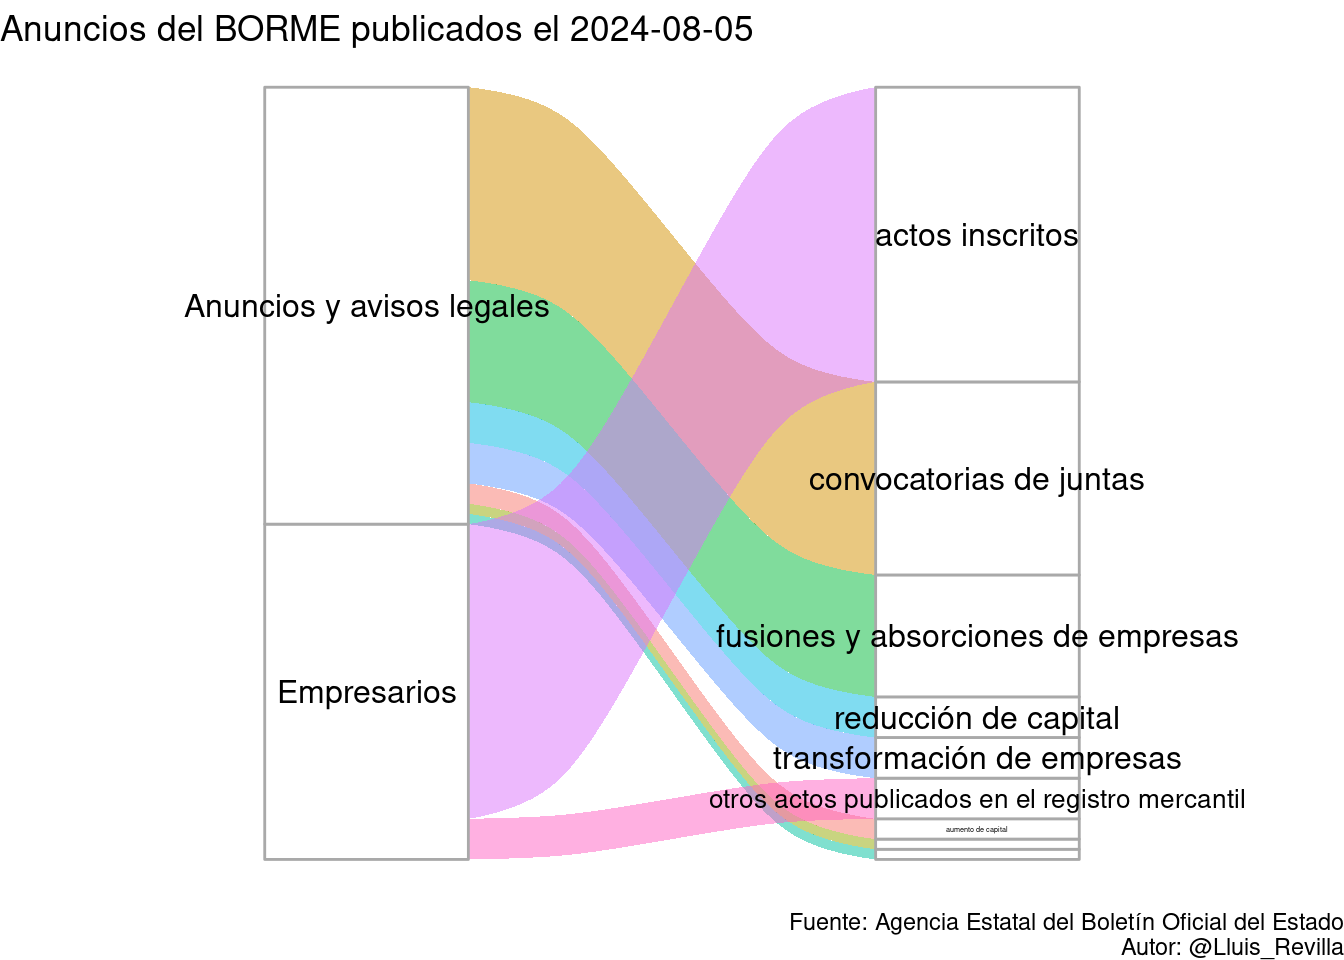
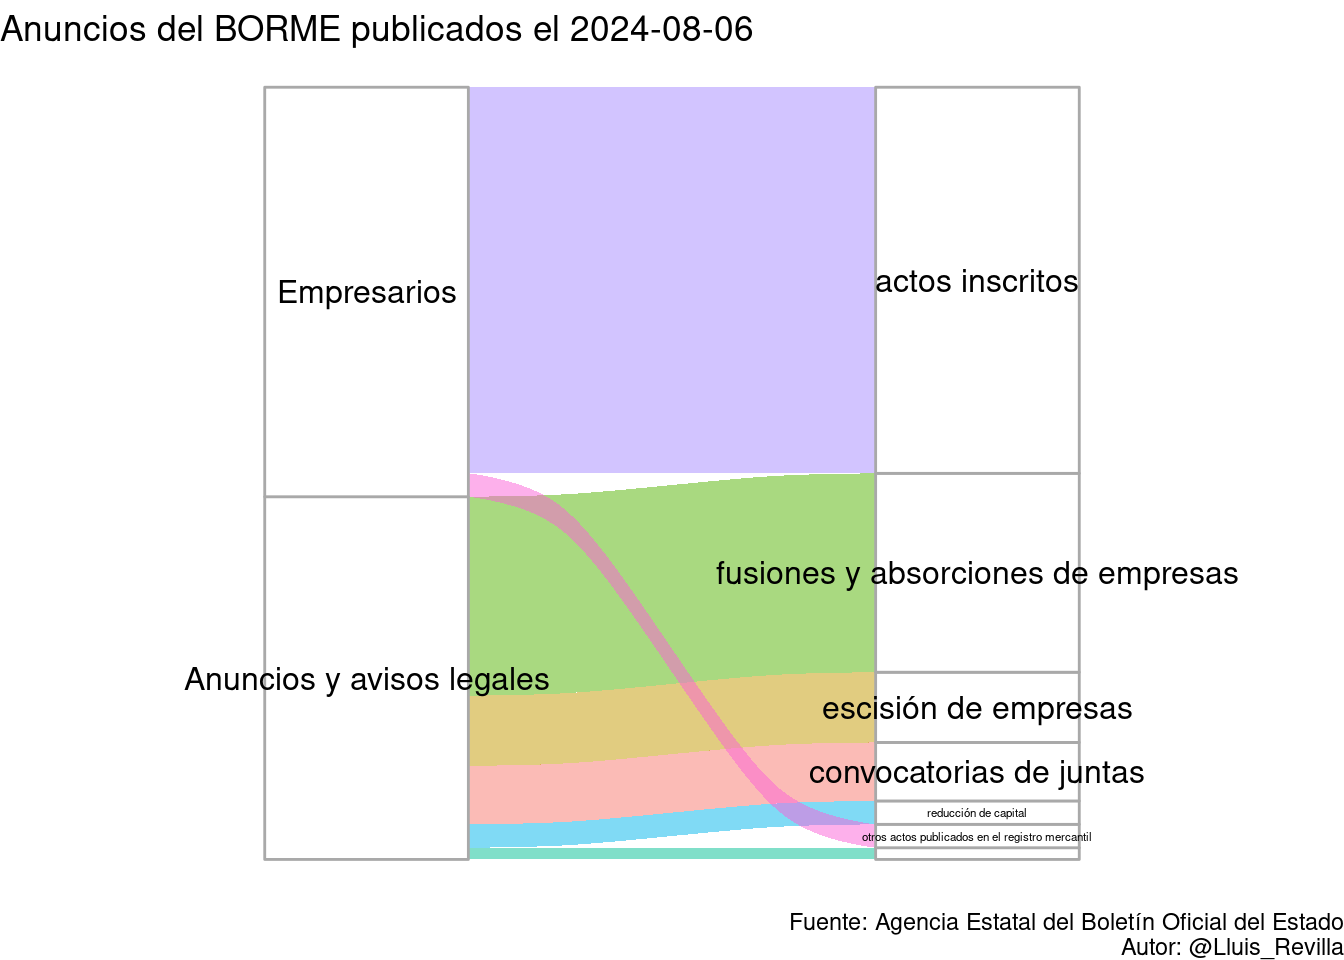
Update BORME

Changed region(s): [[0.125, 0.0938, 0.9375, 0.9062]]

diff --git a/docs/last_BORME.html b/docs/last_BORME.html
@@ -379,14 +379,14 @@ $(document).ready(function () {
 
 <div id="resumen-gráfico" class="section level1">
 <h1>Resumen gráfico</h1>
-<p>Esta página web contiene el último sumario del BORME publicado el 2024-08-05 con 76 publicaciones.</p>
+<p>Esta página web contiene el último sumario del BORME publicado el 2024-08-06 con 66 publicaciones.</p>
 <p><img src="last_BORME_files/figure-html/graphics-1.png" width="672" /></p>
 </div>
 <div id="tabla-de-publicaciones" class="section level1">
 <h1>Tabla de publicaciones</h1>
 <p>Aquí está la tabla completa con enlaces a las publicaciones:</p>
-<div class="datatables html-widget html-fill-item-overflow-hidden html-fill-item" id="htmlwidget-446cd977c142ce4a80d0" style="width:100%;height:auto;"></div>
-<script type="application/json" data-for="htmlwidget-446cd977c142ce4a80d0">{"x":{"filter":"top","vertical":false,"filterHTML":"<tr>\n  <td><\/td>\n  <td data-type=\"character\" style=\"vertical-align: top;\">\n    <div class=\"form-group has-feedback\" style=\"margin-bottom: auto;\">\n      <input type=\"search\" placeholder=\"All\" class=\"form-control\" style=\"width: 100%;\"/>\n      <span class=\"glyphicon glyphicon-remove-circle form-control-feedback\"><\/span>\n    <\/div>\n  <\/td>\n  <td data-type=\"character\" style=\"vertical-align: top;\">\n    <div class=\"form-group has-feedback\" style=\"margin-bottom: auto;\">\n      <input type=\"search\" placeholder=\"All\" class=\"form-control\" style=\"width: 100%;\"/>\n      <span class=\"glyphicon glyphicon-remove-circle form-control-feedback\"><\/span>\n    <\/div>\n  <\/td>\n  <td data-type=\"character\" style=\"vertical-align: top;\">\n    <div class=\"form-group has-feedback\" style=\"margin-bottom: auto;\">\n      <input type=\"search\" placeholder=\"All\" class=\"form-control\" style=\"width: 100%;\" disabled=\"\"/>\n      <span class=\"glyphicon glyphicon-remove-circle form-control-feedback\"><\/span>\n    <\/div>\n  <\/td>\n  <td data-type=\"character\" style=\"vertical-align: top;\">\n    <div class=\"form-group has-feedback\" style=\"margin-bottom: auto;\">\n      <input type=\"search\" placeholder=\"All\" class=\"form-control\" style=\"width: 100%;\"/>\n      <span class=\"glyphicon glyphicon-remove-circle form-control-feedback\"><\/span>\n    <\/div>\n  <\/td>\n<\/tr>","data":[["1","2","3","4","5","6","7","8","9","10","11","12","13","14","15","16","17","18","19","20","21","22","23","24","25","26","27","28","29","30","31","32","33","34","35","36","37","38","39","40","41","42","43","44","45","46","47","48","49","50","51","52","53","54","55","56","57","58","59","60","61","62","63","64","65","66","67","68","69","70","71","72","73","74","75","76"],["SECCIÓN PRIMERA. Empresarios","SECCIÓN PRIMERA. Empresarios","SECCIÓN PRIMERA. Empresarios","SECCIÓN PRIMERA. Empresarios","SECCIÓN PRIMERA. Empresarios","SECCIÓN PRIMERA. Empresarios","SECCIÓN PRIMERA. Empresarios","SECCIÓN PRIMERA. Empresarios","SECCIÓN PRIMERA. Empresarios","SECCIÓN PRIMERA. Empresarios","SECCIÓN PRIMERA. Empresarios","SECCIÓN PRIMERA. Empresarios","SECCIÓN PRIMERA. Empresarios","SECCIÓN PRIMERA. Empresarios","SECCIÓN PRIMERA. Empresarios","SECCIÓN PRIMERA. Empresarios","SECCIÓN PRIMERA. Empresarios","SECCIÓN PRIMERA. Empresarios","SECCIÓN PRIMERA. Empresarios","SECCIÓN PRIMERA. Empresarios","SECCIÓN PRIMERA. Empresarios","SECCIÓN PRIMERA. Empresarios","SECCIÓN PRIMERA. Empresarios","SECCIÓN PRIMERA. Empresarios","SECCIÓN PRIMERA. Empresarios","SECCIÓN PRIMERA. Empresarios","SECCIÓN PRIMERA. Empresarios","SECCIÓN PRIMERA. Empresarios","SECCIÓN PRIMERA. Empresarios","SECCIÓN PRIMERA. Empresarios","SECCIÓN PRIMERA. Empresarios","SECCIÓN PRIMERA. Empresarios","SECCIÓN PRIMERA. Empresarios","SECCIÓN SEGUNDA. Anuncios y avisos legales","SECCIÓN SEGUNDA. Anuncios y avisos legales","SECCIÓN SEGUNDA. Anuncios y avisos legales","SECCIÓN SEGUNDA. Anuncios y avisos legales","SECCIÓN SEGUNDA. Anuncios y avisos legales","SECCIÓN SEGUNDA. Anuncios y avisos legales","SECCIÓN SEGUNDA. Anuncios y avisos legales","SECCIÓN SEGUNDA. Anuncios y avisos legales","SECCIÓN SEGUNDA. Anuncios y avisos legales","SECCIÓN SEGUNDA. Anuncios y avisos legales","SECCIÓN SEGUNDA. Anuncios y avisos legales","SECCIÓN SEGUNDA. Anuncios y avisos legales","SECCIÓN SEGUNDA. Anuncios y avisos legales","SECCIÓN SEGUNDA. Anuncios y avisos legales","SECCIÓN SEGUNDA. Anuncios y avisos legales","SECCIÓN SEGUNDA. Anuncios y avisos legales","SECCIÓN SEGUNDA. Anuncios y avisos legales","SECCIÓN SEGUNDA. Anuncios y avisos legales","SECCIÓN SEGUNDA. Anuncios y avisos legales","SECCIÓN SEGUNDA. Anuncios y avisos legales","SECCIÓN SEGUNDA. Anuncios y avisos legales","SECCIÓN SEGUNDA. Anuncios y avisos legales","SECCIÓN SEGUNDA. Anuncios y avisos legales","SECCIÓN SEGUNDA. Anuncios y avisos legales","SECCIÓN SEGUNDA. Anuncios y avisos legales","SECCIÓN SEGUNDA. Anuncios y avisos legales","SECCIÓN SEGUNDA. Anuncios y avisos legales","SECCIÓN SEGUNDA. Anuncios y avisos legales","SECCIÓN SEGUNDA. Anuncios y avisos legales","SECCIÓN SEGUNDA. Anuncios y avisos legales","SECCIÓN SEGUNDA. Anuncios y avisos legales","SECCIÓN SEGUNDA. Anuncios y avisos legales","SECCIÓN SEGUNDA. Anuncios y avisos legales","SECCIÓN SEGUNDA. Anuncios y avisos legales","SECCIÓN SEGUNDA. Anuncios y avisos legales","SECCIÓN SEGUNDA. Anuncios y avisos legales","SECCIÓN SEGUNDA. Anuncios y avisos legales","SECCIÓN SEGUNDA. Anuncios y avisos legales","SECCIÓN SEGUNDA. Anuncios y avisos legales","SECCIÓN SEGUNDA. Anuncios y avisos legales","SECCIÓN SEGUNDA. Anuncios y avisos legales","SECCIÓN SEGUNDA. Anuncios y avisos legales","SECCIÓN SEGUNDA. Anuncios y avisos legales"],["Actos inscritos","Actos inscritos","Actos inscritos","Actos inscritos","Actos inscritos","Actos inscritos","Actos inscritos","Actos inscritos","Actos inscritos","Actos inscritos","Actos inscritos","Actos inscritos","Actos inscritos","Actos inscritos","Actos inscritos","Actos inscritos","Actos inscritos","Actos inscritos","Actos inscritos","Actos inscritos","Actos inscritos","Actos inscritos","Actos inscritos","Actos inscritos","Actos inscritos","Actos inscritos","Actos inscritos","Actos inscritos","Actos inscritos","Otros actos publicados en el Registro Mercantil","Otros actos publicados en el Registro Mercantil","Otros actos publicados en el Registro Mercantil","Otros actos publicados en el Registro Mercantil","CONVOCATORIAS DE JUNTAS","CONVOCATORIAS DE JUNTAS","CONVOCATORIAS DE JUNTAS","CONVOCATORIAS DE JUNTAS","CONVOCATORIAS DE JUNTAS","CONVOCATORIAS DE JUNTAS","CONVOCATORIAS DE JUNTAS","CONVOCATORIAS DE JUNTAS","CONVOCATORIAS DE JUNTAS","CONVOCATORIAS DE JUNTAS","CONVOCATORIAS DE JUNTAS","CONVOCATORIAS DE JUNTAS","CONVOCATORIAS DE JUNTAS","CONVOCATORIAS DE JUNTAS","CONVOCATORIAS DE JUNTAS","CONVOCATORIAS DE JUNTAS","CONVOCATORIAS DE JUNTAS","CONVOCATORIAS DE JUNTAS","CONVOCATORIAS DE JUNTAS","FUSIONES Y ABSORCIONES DE EMPRESAS","FUSIONES Y ABSORCIONES DE EMPRESAS","FUSIONES Y ABSORCIONES DE EMPRESAS","FUSIONES Y ABSORCIONES DE EMPRESAS","FUSIONES Y ABSORCIONES DE EMPRESAS","FUSIONES Y ABSORCIONES DE EMPRESAS","FUSIONES Y ABSORCIONES DE EMPRESAS","FUSIONES Y ABSORCIONES DE EMPRESAS","FUSIONES Y ABSORCIONES DE EMPRESAS","FUSIONES Y ABSORCIONES DE EMPRESAS","FUSIONES Y ABSORCIONES DE EMPRESAS","FUSIONES Y ABSORCIONES DE EMPRESAS","ESCISIÓN DE EMPRESAS","TRANSFORMACIÓN DE EMPRESAS","TRANSFORMACIÓN DE EMPRESAS","TRANSFORMACIÓN DE EMPRESAS","TRANSFORMACIÓN DE EMPRESAS","AUMENTO DE CAPITAL","AUMENTO DE CAPITAL","REDUCCIÓN DE CAPITAL","REDUCCIÓN DE CAPITAL","REDUCCIÓN DE CAPITAL","REDUCCIÓN DE CAPITAL","OTROS ANUNCIOS Y AVISOS LEGALES"],[null,null,null,null,null,null,null,null,null,null,null,null,null,null,null,null,null,null,null,null,null,null,null,null,null,null,null,null,null,null,null,null,null,null,null,null,null,null,null,null,null,null,null,null,null,null,null,null,null,null,null,null,null,null,null,null,null,null,null,null,null,null,null,null,null,null,null,null,null,null,null,null,null,null,null,null],["BORME-A-2024-149-03","BORME-A-2024-149-04","BORME-A-2024-149-06","BORME-A-2024-149-07","BORME-A-2024-149-08","BORME-A-2024-149-11","BORME-A-2024-149-13","BORME-A-2024-149-15","BORME-A-2024-149-17","BORME-A-2024-149-18","BORME-A-2024-149-22","BORME-A-2024-149-23","BORME-A-2024-149-24","BORME-A-2024-149-25","BORME-A-2024-149-28","BORME-A-2024-149-29","BORME-A-2024-149-30","BORME-A-2024-149-31","BORME-A-2024-149-32","BORME-A-2024-149-34","BORME-A-2024-149-35","BORME-A-2024-149-36","BORME-A-2024-149-38","BORME-A-2024-149-43","BORME-A-2024-149-45","BORME-A-2024-149-46","BORME-A-2024-149-47","BORME-A-2024-149-51","BORME-A-2024-149-99","BORME-B-2024-149-07","BORME-B-2024-149-08","BORME-B-2024-149-28","BORME-B-2024-149-31","BORME-C-2024-4737","BORME-C-2024-4738","BORME-C-2024-4739","BORME-C-2024-4740","BORME-C-2024-4741","BORME-C-2024-4742","BORME-C-2024-4743","BORME-C-2024-4744","BORME-C-2024-4745","BORME-C-2024-4746","BORME-C-2024-4747","BORME-C-2024-4748","BORME-C-2024-4749","BORME-C-2024-4750","BORME-C-2024-4751","BORME-C-2024-4752","BORME-C-2024-4753","BORME-C-2024-4754","BORME-C-2024-4755","BORME-C-2024-4756","BORME-C-2024-4757","BORME-C-2024-4758","BORME-C-2024-4759","BORME-C-2024-4760","BORME-C-2024-4761","BORME-C-2024-4762","BORME-C-2024-4763","BORME-C-2024-4764","BORME-C-2024-4765","BORME-C-2024-4766","BORME-C-2024-4767","BORME-C-2024-4768","BORME-C-2024-4769","BORME-C-2024-4770","BORME-C-2024-4771","BORME-C-2024-4772","BORME-C-2024-4773","BORME-C-2024-4774","BORME-C-2024-4775","BORME-C-2024-4776","BORME-C-2024-4777","BORME-C-2024-4778","BORME-C-2024-4779"]],"container":"<table class=\"display\">\n  <thead>\n    <tr>\n      <th> <\/th>\n      <th>Sección<\/th>\n      <th>Emisor<\/th>\n      <th>Texto<\/th>\n      <th>Link<\/th>\n    <\/tr>\n  <\/thead>\n<\/table>","options":{"pageLength":10,"autoWidth":true,"columnDefs":[{"orderable":false,"targets":0},{"name":" ","targets":0},{"name":"Sección","targets":1},{"name":"Emisor","targets":2},{"name":"Texto","targets":3},{"name":"Link","targets":4}],"order":[],"orderClasses":false,"orderCellsTop":true}},"evals":[],"jsHooks":[]}</script>
+<div class="datatables html-widget html-fill-item-overflow-hidden html-fill-item" id="htmlwidget-1044d90bc872cc317570" style="width:100%;height:auto;"></div>
+<script type="application/json" data-for="htmlwidget-1044d90bc872cc317570">{"x":{"filter":"top","vertical":false,"filterHTML":"<tr>\n  <td><\/td>\n  <td data-type=\"character\" style=\"vertical-align: top;\">\n    <div class=\"form-group has-feedback\" style=\"margin-bottom: auto;\">\n      <input type=\"search\" placeholder=\"All\" class=\"form-control\" style=\"width: 100%;\"/>\n      <span class=\"glyphicon glyphicon-remove-circle form-control-feedback\"><\/span>\n    <\/div>\n  <\/td>\n  <td data-type=\"character\" style=\"vertical-align: top;\">\n    <div class=\"form-group has-feedback\" style=\"margin-bottom: auto;\">\n      <input type=\"search\" placeholder=\"All\" class=\"form-control\" style=\"width: 100%;\"/>\n      <span class=\"glyphicon glyphicon-remove-circle form-control-feedback\"><\/span>\n    <\/div>\n  <\/td>\n  <td data-type=\"character\" style=\"vertical-align: top;\">\n    <div class=\"form-group has-feedback\" style=\"margin-bottom: auto;\">\n      <input type=\"search\" placeholder=\"All\" class=\"form-control\" style=\"width: 100%;\" disabled=\"\"/>\n      <span class=\"glyphicon glyphicon-remove-circle form-control-feedback\"><\/span>\n    <\/div>\n  <\/td>\n  <td data-type=\"character\" style=\"vertical-align: top;\">\n    <div class=\"form-group has-feedback\" style=\"margin-bottom: auto;\">\n      <input type=\"search\" placeholder=\"All\" class=\"form-control\" style=\"width: 100%;\"/>\n      <span class=\"glyphicon glyphicon-remove-circle form-control-feedback\"><\/span>\n    <\/div>\n  <\/td>\n<\/tr>","data":[["1","2","3","4","5","6","7","8","9","10","11","12","13","14","15","16","17","18","19","20","21","22","23","24","25","26","27","28","29","30","31","32","33","34","35","36","37","38","39","40","41","42","43","44","45","46","47","48","49","50","51","52","53","54","55","56","57","58","59","60","61","62","63","64","65","66"],["SECCIÓN PRIMERA. Empresarios","SECCIÓN PRIMERA. Empresarios","SECCIÓN PRIMERA. Empresarios","SECCIÓN PRIMERA. Empresarios","SECCIÓN PRIMERA. Empresarios","SECCIÓN PRIMERA. Empresarios","SECCIÓN PRIMERA. Empresarios","SECCIÓN PRIMERA. Empresarios","SECCIÓN PRIMERA. Empresarios","SECCIÓN PRIMERA. Empresarios","SECCIÓN PRIMERA. Empresarios","SECCIÓN PRIMERA. Empresarios","SECCIÓN PRIMERA. Empresarios","SECCIÓN PRIMERA. Empresarios","SECCIÓN PRIMERA. Empresarios","SECCIÓN PRIMERA. Empresarios","SECCIÓN PRIMERA. Empresarios","SECCIÓN PRIMERA. Empresarios","SECCIÓN PRIMERA. Empresarios","SECCIÓN PRIMERA. Empresarios","SECCIÓN PRIMERA. Empresarios","SECCIÓN PRIMERA. Empresarios","SECCIÓN PRIMERA. Empresarios","SECCIÓN PRIMERA. Empresarios","SECCIÓN PRIMERA. Empresarios","SECCIÓN PRIMERA. Empresarios","SECCIÓN PRIMERA. Empresarios","SECCIÓN PRIMERA. Empresarios","SECCIÓN PRIMERA. Empresarios","SECCIÓN PRIMERA. Empresarios","SECCIÓN PRIMERA. Empresarios","SECCIÓN PRIMERA. Empresarios","SECCIÓN PRIMERA. Empresarios","SECCIÓN PRIMERA. Empresarios","SECCIÓN PRIMERA. Empresarios","SECCIÓN SEGUNDA. Anuncios y avisos legales","SECCIÓN SEGUNDA. Anuncios y avisos legales","SECCIÓN SEGUNDA. Anuncios y avisos legales","SECCIÓN SEGUNDA. Anuncios y avisos legales","SECCIÓN SEGUNDA. Anuncios y avisos legales","SECCIÓN SEGUNDA. Anuncios y avisos legales","SECCIÓN SEGUNDA. Anuncios y avisos legales","SECCIÓN SEGUNDA. Anuncios y avisos legales","SECCIÓN SEGUNDA. Anuncios y avisos legales","SECCIÓN SEGUNDA. Anuncios y avisos legales","SECCIÓN SEGUNDA. Anuncios y avisos legales","SECCIÓN SEGUNDA. Anuncios y avisos legales","SECCIÓN SEGUNDA. Anuncios y avisos legales","SECCIÓN SEGUNDA. Anuncios y avisos legales","SECCIÓN SEGUNDA. Anuncios y avisos legales","SECCIÓN SEGUNDA. Anuncios y avisos legales","SECCIÓN SEGUNDA. Anuncios y avisos legales","SECCIÓN SEGUNDA. Anuncios y avisos legales","SECCIÓN SEGUNDA. Anuncios y avisos legales","SECCIÓN SEGUNDA. Anuncios y avisos legales","SECCIÓN SEGUNDA. Anuncios y avisos legales","SECCIÓN SEGUNDA. Anuncios y avisos legales","SECCIÓN SEGUNDA. Anuncios y avisos legales","SECCIÓN SEGUNDA. Anuncios y avisos legales","SECCIÓN SEGUNDA. Anuncios y avisos legales","SECCIÓN SEGUNDA. Anuncios y avisos legales","SECCIÓN SEGUNDA. Anuncios y avisos legales","SECCIÓN SEGUNDA. Anuncios y avisos legales","SECCIÓN SEGUNDA. Anuncios y avisos legales","SECCIÓN SEGUNDA. Anuncios y avisos legales","SECCIÓN SEGUNDA. Anuncios y avisos legales"],["Actos inscritos","Actos inscritos","Actos inscritos","Actos inscritos","Actos inscritos","Actos inscritos","Actos inscritos","Actos inscritos","Actos inscritos","Actos inscritos","Actos inscritos","Actos inscritos","Actos inscritos","Actos inscritos","Actos inscritos","Actos inscritos","Actos inscritos","Actos inscritos","Actos inscritos","Actos inscritos","Actos inscritos","Actos inscritos","Actos inscritos","Actos inscritos","Actos inscritos","Actos inscritos","Actos inscritos","Actos inscritos","Actos inscritos","Actos inscritos","Actos inscritos","Actos inscritos","Actos inscritos","Otros actos publicados en el Registro Mercantil","Otros actos publicados en el Registro Mercantil","CONVOCATORIAS DE JUNTAS","CONVOCATORIAS DE JUNTAS","CONVOCATORIAS DE JUNTAS","CONVOCATORIAS DE JUNTAS","CONVOCATORIAS DE JUNTAS","FUSIONES Y ABSORCIONES DE EMPRESAS","FUSIONES Y ABSORCIONES DE EMPRESAS","FUSIONES Y ABSORCIONES DE EMPRESAS","FUSIONES Y ABSORCIONES DE EMPRESAS","FUSIONES Y ABSORCIONES DE EMPRESAS","FUSIONES Y ABSORCIONES DE EMPRESAS","FUSIONES Y ABSORCIONES DE EMPRESAS","FUSIONES Y ABSORCIONES DE EMPRESAS","FUSIONES Y ABSORCIONES DE EMPRESAS","FUSIONES Y ABSORCIONES DE EMPRESAS","FUSIONES Y ABSORCIONES DE EMPRESAS","FUSIONES Y ABSORCIONES DE EMPRESAS","FUSIONES Y ABSORCIONES DE EMPRESAS","FUSIONES Y ABSORCIONES DE EMPRESAS","FUSIONES Y ABSORCIONES DE EMPRESAS","FUSIONES Y ABSORCIONES DE EMPRESAS","FUSIONES Y ABSORCIONES DE EMPRESAS","ESCISIÓN DE EMPRESAS","ESCISIÓN DE EMPRESAS","ESCISIÓN DE EMPRESAS","ESCISIÓN DE EMPRESAS","ESCISIÓN DE EMPRESAS","ESCISIÓN DE EMPRESAS","REDUCCIÓN DE CAPITAL","REDUCCIÓN DE CAPITAL","OTROS ANUNCIOS Y AVISOS LEGALES"],[null,null,null,null,null,null,null,null,null,null,null,null,null,null,null,null,null,null,null,null,null,null,null,null,null,null,null,null,null,null,null,null,null,null,null,null,null,null,null,null,null,null,null,null,null,null,null,null,null,null,null,null,null,null,null,null,null,null,null,null,null,null,null,null,null,null],["BORME-A-2024-150-01","BORME-A-2024-150-02","BORME-A-2024-150-03","BORME-A-2024-150-04","BORME-A-2024-150-06","BORME-A-2024-150-07","BORME-A-2024-150-08","BORME-A-2024-150-10","BORME-A-2024-150-14","BORME-A-2024-150-15","BORME-A-2024-150-16","BORME-A-2024-150-17","BORME-A-2024-150-18","BORME-A-2024-150-23","BORME-A-2024-150-24","BORME-A-2024-150-25","BORME-A-2024-150-26","BORME-A-2024-150-28","BORME-A-2024-150-29","BORME-A-2024-150-30","BORME-A-2024-150-31","BORME-A-2024-150-33","BORME-A-2024-150-34","BORME-A-2024-150-35","BORME-A-2024-150-36","BORME-A-2024-150-41","BORME-A-2024-150-43","BORME-A-2024-150-44","BORME-A-2024-150-46","BORME-A-2024-150-47","BORME-A-2024-150-48","BORME-A-2024-150-50","BORME-A-2024-150-99","BORME-B-2024-150-08","BORME-B-2024-150-44","BORME-C-2024-4780","BORME-C-2024-4781","BORME-C-2024-4782","BORME-C-2024-4783","BORME-C-2024-4784","BORME-C-2024-4785","BORME-C-2024-4786","BORME-C-2024-4787","BORME-C-2024-4788","BORME-C-2024-4789","BORME-C-2024-4790","BORME-C-2024-4791","BORME-C-2024-4792","BORME-C-2024-4793","BORME-C-2024-4794","BORME-C-2024-4795","BORME-C-2024-4796","BORME-C-2024-4797","BORME-C-2024-4798","BORME-C-2024-4799","BORME-C-2024-4800","BORME-C-2024-4801","BORME-C-2024-4802","BORME-C-2024-4803","BORME-C-2024-4804","BORME-C-2024-4805","BORME-C-2024-4806","BORME-C-2024-4807","BORME-C-2024-4808","BORME-C-2024-4809","BORME-C-2024-4810"]],"container":"<table class=\"display\">\n  <thead>\n    <tr>\n      <th> <\/th>\n      <th>Sección<\/th>\n      <th>Emisor<\/th>\n      <th>Texto<\/th>\n      <th>Link<\/th>\n    <\/tr>\n  <\/thead>\n<\/table>","options":{"pageLength":10,"autoWidth":true,"columnDefs":[{"orderable":false,"targets":0},{"name":" ","targets":0},{"name":"Sección","targets":1},{"name":"Emisor","targets":2},{"name":"Texto","targets":3},{"name":"Link","targets":4}],"order":[],"orderClasses":false,"orderCellsTop":true}},"evals":[],"jsHooks":[]}</script>
 </div>
 
 
